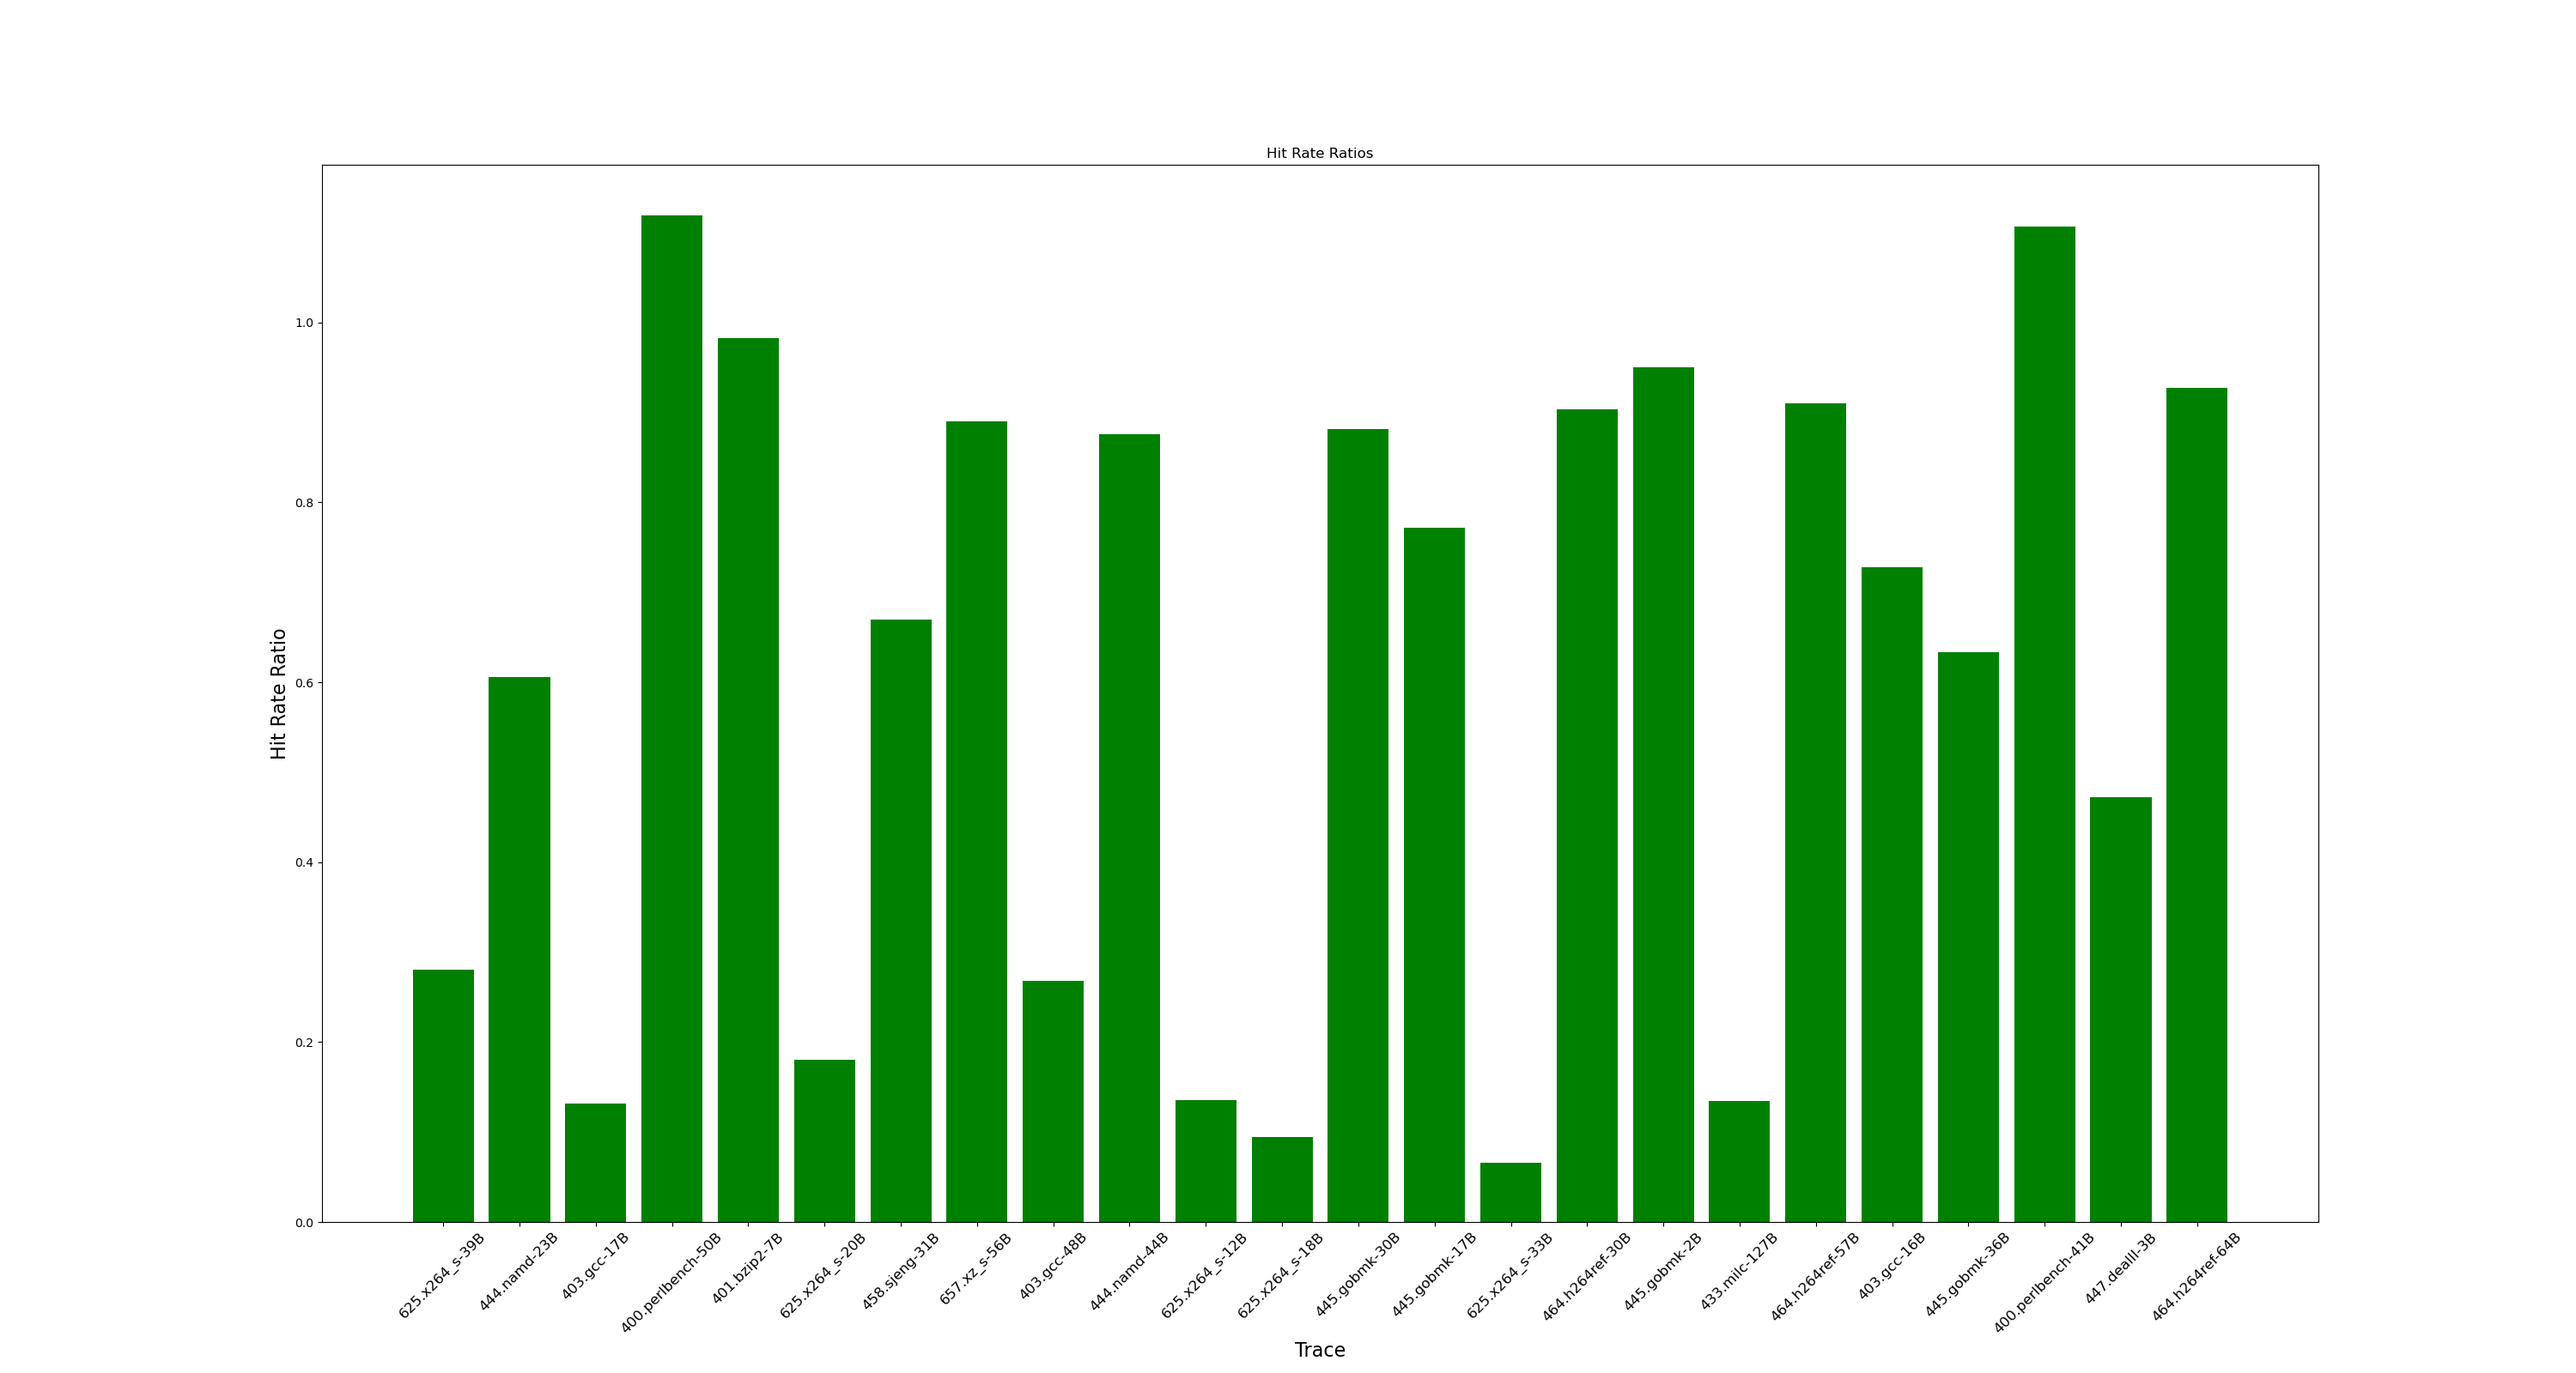
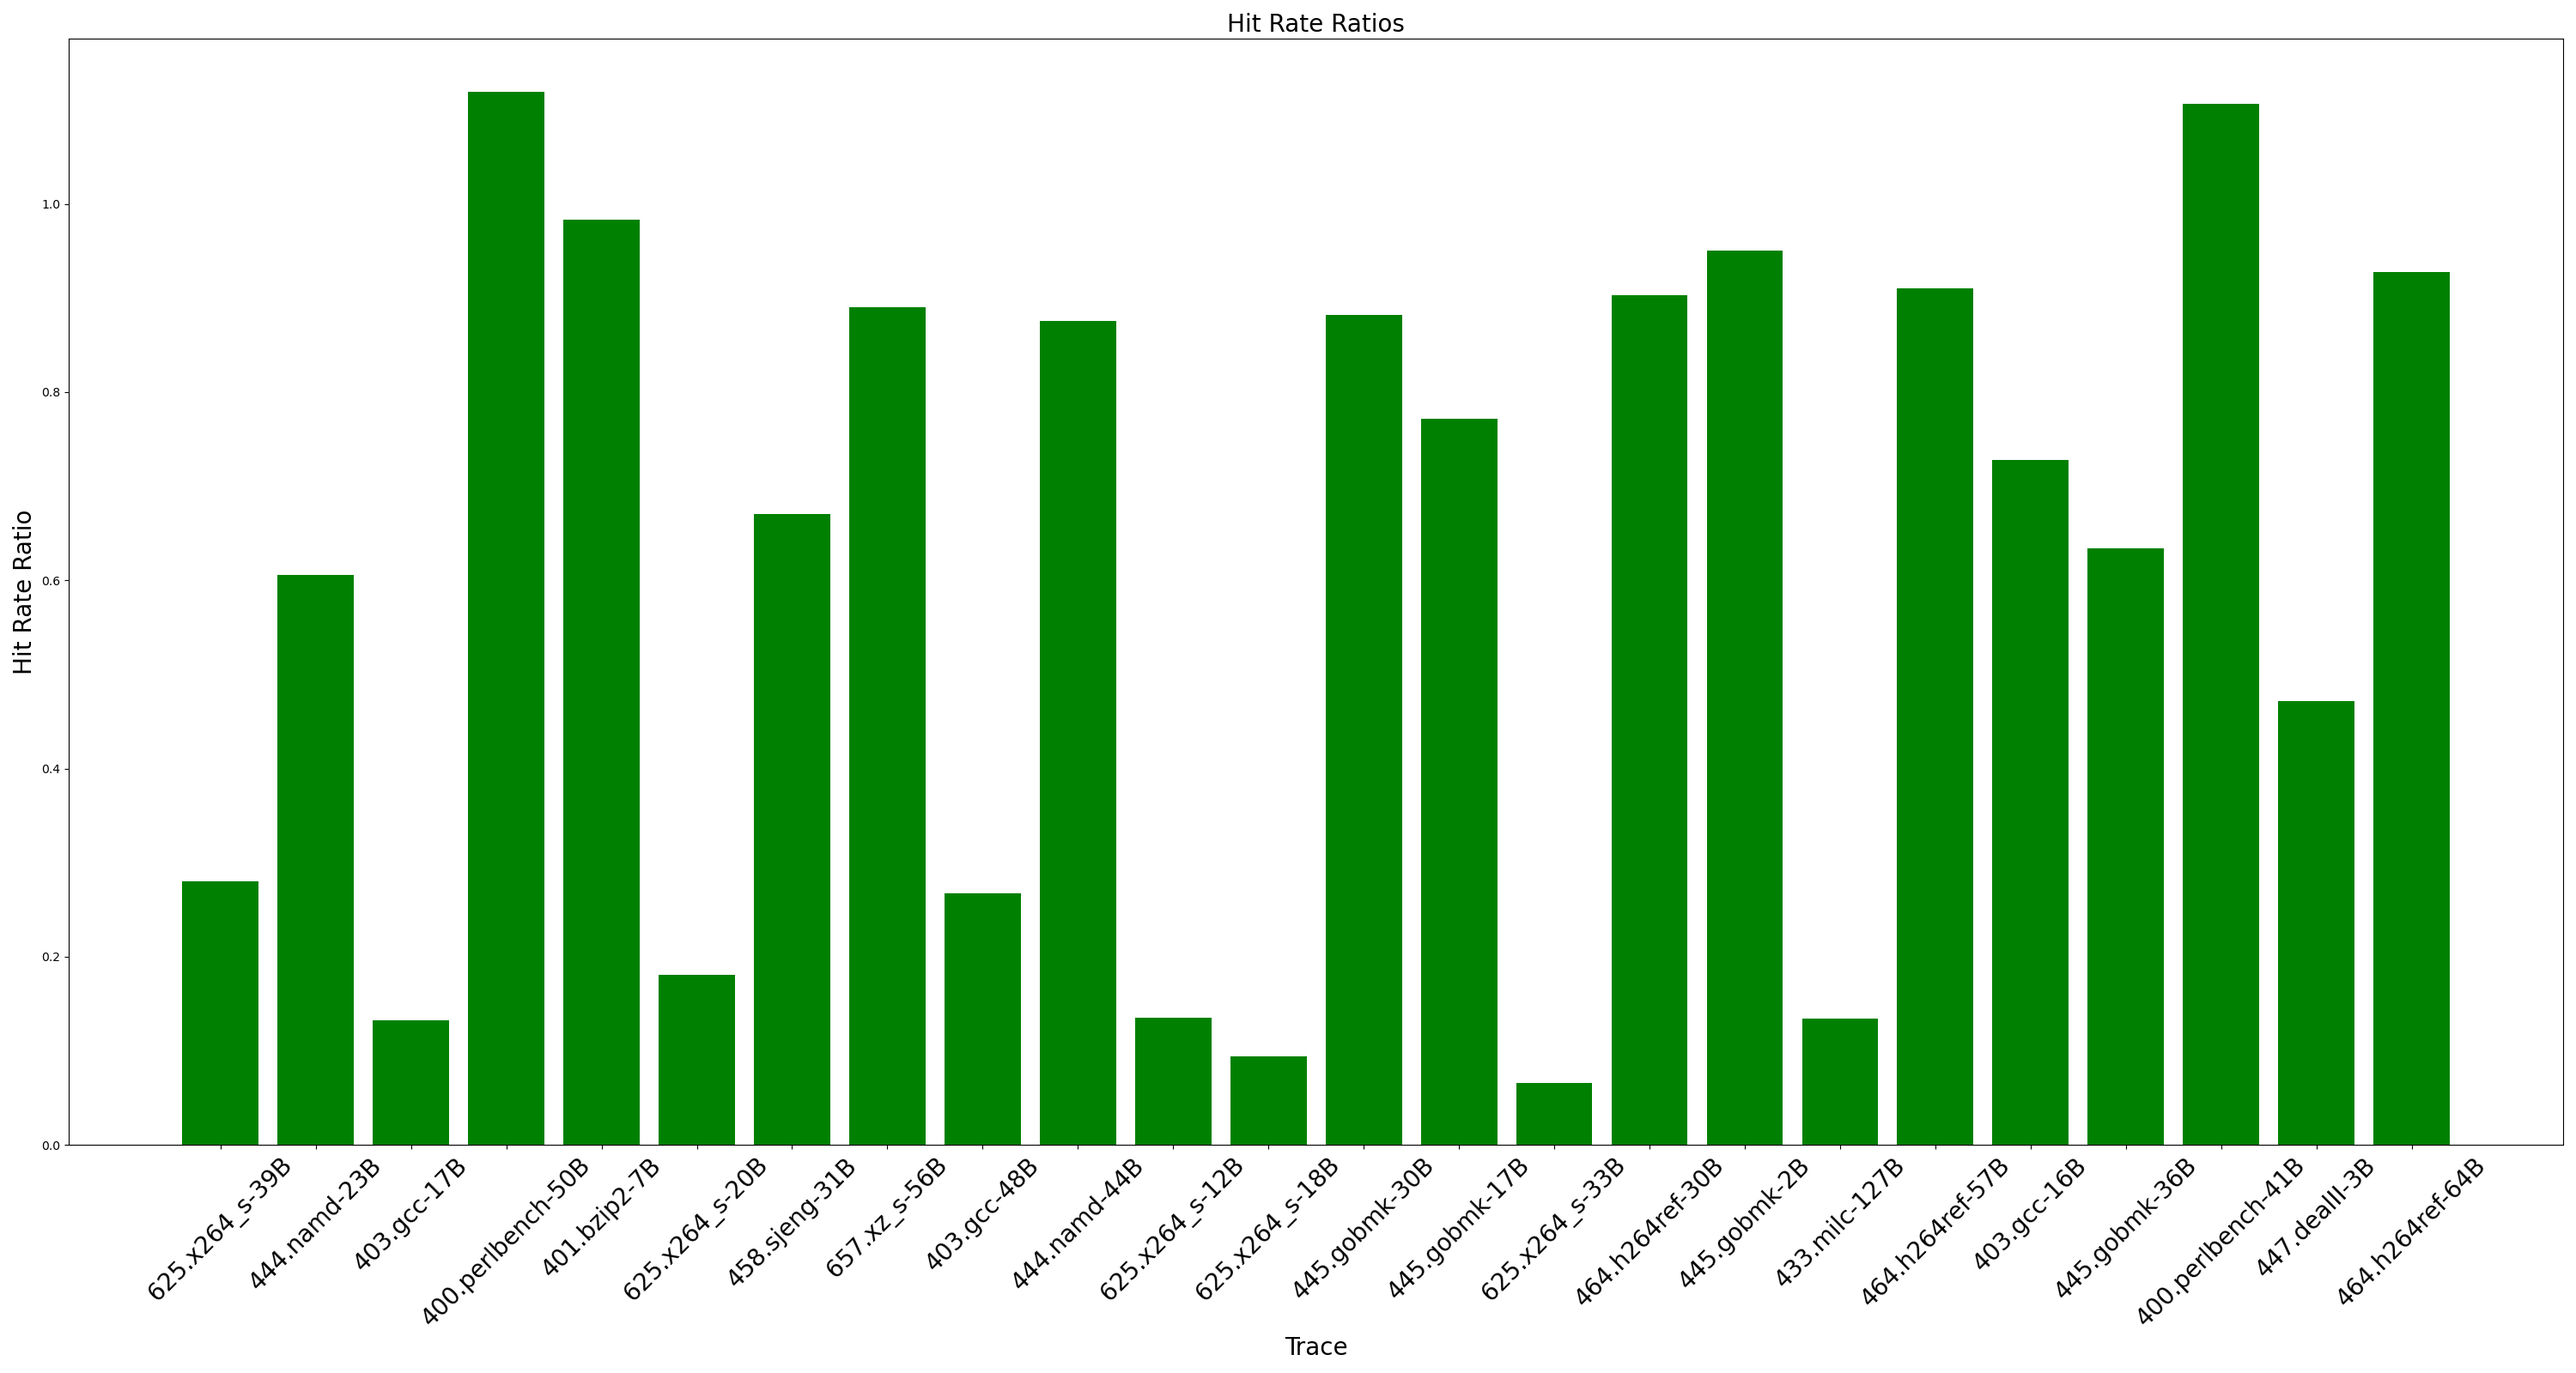
More plots

diff --git a/analyse.py b/analyse.py
@@ -79,23 +79,65 @@ for trace in traces:
 
 print(f"Average % Unused Lines: {total_unused / len(traces):.2f}%")
 
-# Plotting the IPC and Hit Rate ratios in separate plots
+# Plotting the IPC ratio,  Hit Rate ratio, unused line % in separate plots
 ipc_ratios = [stats["ReuseCache"][trace]['IPC'] / stats["ConventionalCache"][trace]['IPC'] for trace in traces]
 hit_rate_ratios = [stats["ReuseCache"][trace]['HitRate'] / stats["ConventionalCache"][trace]['HitRate'] for trace in traces]
+unused_lines = [stats["ConventionalCache"][trace]['EvictionStats'].get(0, 0) / stats["ConventionalCache"][trace]['TotalLines'] * 100 for trace in traces]
 
 plt.figure(figsize=(30, 16))
 plt.bar(traces, ipc_ratios, color='blue')
-plt.title('IPC Ratios')
-plt.xlabel('Trace', fontsize=16)
-plt.ylabel('IPC Ratio', fontsize=16)
-plt.xticks(rotation=45, fontsize=12)
+plt.title('IPC Ratios', fontsize=20)
+plt.xlabel('Trace', fontsize=20)
+plt.ylabel('IPC Ratio', fontsize=20)
+plt.xticks(rotation=45, fontsize=20)
+plt.tight_layout()
 plt.savefig('ipc_ratios_spec.png')
 
 
 plt.figure(figsize=(30, 16))
 plt.bar(traces, hit_rate_ratios, color='green')
-plt.title('Hit Rate Ratios')
-plt.xlabel('Trace', fontsize=16)
-plt.ylabel('Hit Rate Ratio', fontsize=16)
-plt.xticks(rotation=45, fontsize=12)
+plt.title('Hit Rate Ratios', fontsize=20)
+plt.xlabel('Trace', fontsize=20)
+plt.ylabel('Hit Rate Ratio', fontsize=20)
+plt.xticks(rotation=45, fontsize=20)
+plt.tight_layout()
 plt.savefig('hit_rate_ratios_spec.png')
+
+# add the average line to the plot and write the average value on the plot
+plt.figure(figsize=(30, 16))
+plt.bar(traces, unused_lines, color='red')
+plt.axhline(y=total_unused / len(traces), color='r', linestyle='--', label='Average % Unused Lines')
+plt.text(-1, total_unused / len(traces) + 1, f'Average: {total_unused / len(traces):.2f}%', color='r', fontsize=20)
+plt.title('Unused Lines %', fontsize=20)
+plt.xlabel('Trace', fontsize=20)
+plt.ylabel('Unused Lines %', fontsize=20)
+plt.xticks(rotation=45, fontsize=20)
+plt.tight_layout()
+plt.savefig('unused_lines_spec.png')
+
+plt.figure(figsize=(30, 16))
+x = range(len(traces))
+width = 0.35
+plt.bar(x, [stats["ReuseCache"][trace]['IPC'] for trace in traces], width, label='Reuse IPC', color='blue')
+plt.bar([i + width for i in x], [stats["ConventionalCache"][trace]['IPC'] for trace in traces], width, label='Conventional IPC', color='orange')
+plt.title('IPC for Conventional and Reuse Cache', fontsize=20)
+plt.xlabel('Trace', fontsize=20)
+plt.ylabel('IPC', fontsize=20)
+plt.xticks([i + width / 2 for i in x], traces, rotation=45, fontsize=20)
+plt.legend()
+plt.tight_layout()
+plt.savefig('ipc_conv_reuse_spec.png')
+
+# plot a bar plot with conventianal ipc and reuse hit rate sied by side in a bar graph
+plt.figure(figsize=(30, 16))
+x = range(len(traces))
+width = 0.35
+plt.bar(x, [stats["ReuseCache"][trace]['HitRate'] for trace in traces], width, label='Reuse Hit Rate', color='blue')
+plt.bar([i + width for i in x], [stats["ConventionalCache"][trace]['HitRate'] for trace in traces], width, label='Conventional Hit Rate', color='orange')
+plt.title('Hit Rate for Conventional and Reuse Cache', fontsize=20)
+plt.xlabel('Trace', fontsize=20)
+plt.ylabel('Hit Rate', fontsize=20)
+plt.xticks([i + width / 2 for i in x], traces, rotation=45, fontsize=20)
+plt.legend()
+plt.tight_layout()
+plt.savefig('hit_rate_conv_reuse_spec.png')

diff --git a/analyse_ml.py b/analyse_ml.py
@@ -77,20 +77,63 @@ print("Average % Unused Lines: ", total_unused / len(models))
 
 ipc_ratios = [stats["ReuseCache"][model]['IPC'] / stats["ConventionalCache"][model]['IPC'] for model in models]
 hit_rate_ratios = [stats["ReuseCache"][model]['HitRate'] / stats["ConventionalCache"][model]['HitRate'] for model in models]
+unused_lines = [stats["ConventionalCache"][model]['EvictionStats'].get(0, 0) / stats["ConventionalCache"][model]['TotalLines'] * 100 for model in models]
 
 plt.figure(figsize=(30, 16))
 plt.bar(models, ipc_ratios, color='blue')
-plt.title('IPC Ratios')
-plt.xlabel('model', fontsize=16)
-plt.ylabel('IPC Ratio', fontsize=16)
-plt.xticks(rotation=45, fontsize=12)
+plt.title('IPC Ratios', fontsize=20)
+plt.xlabel('Model', fontsize=20)
+plt.ylabel('IPC Ratio', fontsize=20)
+plt.xticks(rotation=45, fontsize=20)
+plt.tight_layout()
 plt.savefig('ipc_ratios_ml.png')
 
 
 plt.figure(figsize=(30, 16))
 plt.bar(models, hit_rate_ratios, color='green')
-plt.title('Hit Rate Ratios')
-plt.xlabel('model', fontsize=16)
-plt.ylabel('Hit Rate Ratio', fontsize=16)
-plt.xticks(rotation=45, fontsize=12)
+plt.title('Hit Rate Ratios', fontsize=20)
+plt.xlabel('Model', fontsize=20)
+plt.ylabel('Hit Rate Ratio', fontsize=20)
+plt.xticks(rotation=45, fontsize=20)
+plt.tight_layout()
 plt.savefig('hit_rate_ratios_ml.png')
+
+plt.figure(figsize=(30, 16))
+plt.bar(models, unused_lines, color='red')
+plt.axhline(y=total_unused / len(models), color='r', linestyle='--', label='Average % Unused Lines')
+plt.text(0, total_unused / len(models) + 0.5, f'Average: {total_unused / len(models):.2f}%', color='r', fontsize=20)
+plt.title('Unused Lines %', fontsize=20)
+plt.xlabel('Model', fontsize=20)
+plt.ylabel('Unused Lines %', fontsize=20)
+plt.xticks(rotation=45, fontsize=20)
+plt.tight_layout()
+plt.savefig('unused_lines_ml.png')
+
+# plot a bar plot with conventianal ipc and reuse ipc sied by side in a bar graph
+
+plt.figure(figsize=(30, 16))
+x = range(len(models))
+width = 0.35
+plt.bar(x, [stats["ReuseCache"][model]['IPC'] for model in models], width, label='Reuse IPC', color='blue')
+plt.bar([i + width for i in x], [stats["ConventionalCache"][model]['IPC'] for model in models], width, label='Conventional IPC', color='orange')
+plt.title('IPC for Conventional and Reuse Cache', fontsize=20)
+plt.xlabel('Model', fontsize=20)
+plt.ylabel('IPC', fontsize=20)
+plt.xticks([i + width / 2 for i in x], models, rotation=45, fontsize=20)
+plt.legend()
+plt.tight_layout()
+plt.savefig('ipc_conv_reuse_ml.png')
+
+# plot a bar plot with conventianal hit rate and reuse hit rate sied by side in a bar graph
+plt.figure(figsize=(30, 16))
+x = range(len(models))
+width = 0.35
+plt.bar(x, [stats["ReuseCache"][model]['HitRate'] for model in models], width, label='Reuse Hit Rate', color='blue')
+plt.bar([i + width for i in x], [stats["ConventionalCache"][model]['HitRate'] for model in models], width, label='Conventional Hit Rate', color='orange')
+plt.title('Hit Rate for Conventional and Reuse Cache', fontsize=20)
+plt.xlabel('Model', fontsize=20)
+plt.ylabel('Hit Rate', fontsize=20)
+plt.xticks([i + width / 2 for i in x], models, rotation=45, fontsize=20)
+plt.legend()
+plt.tight_layout()
+plt.savefig('hit_rate_conv_reuse_ml.png')
